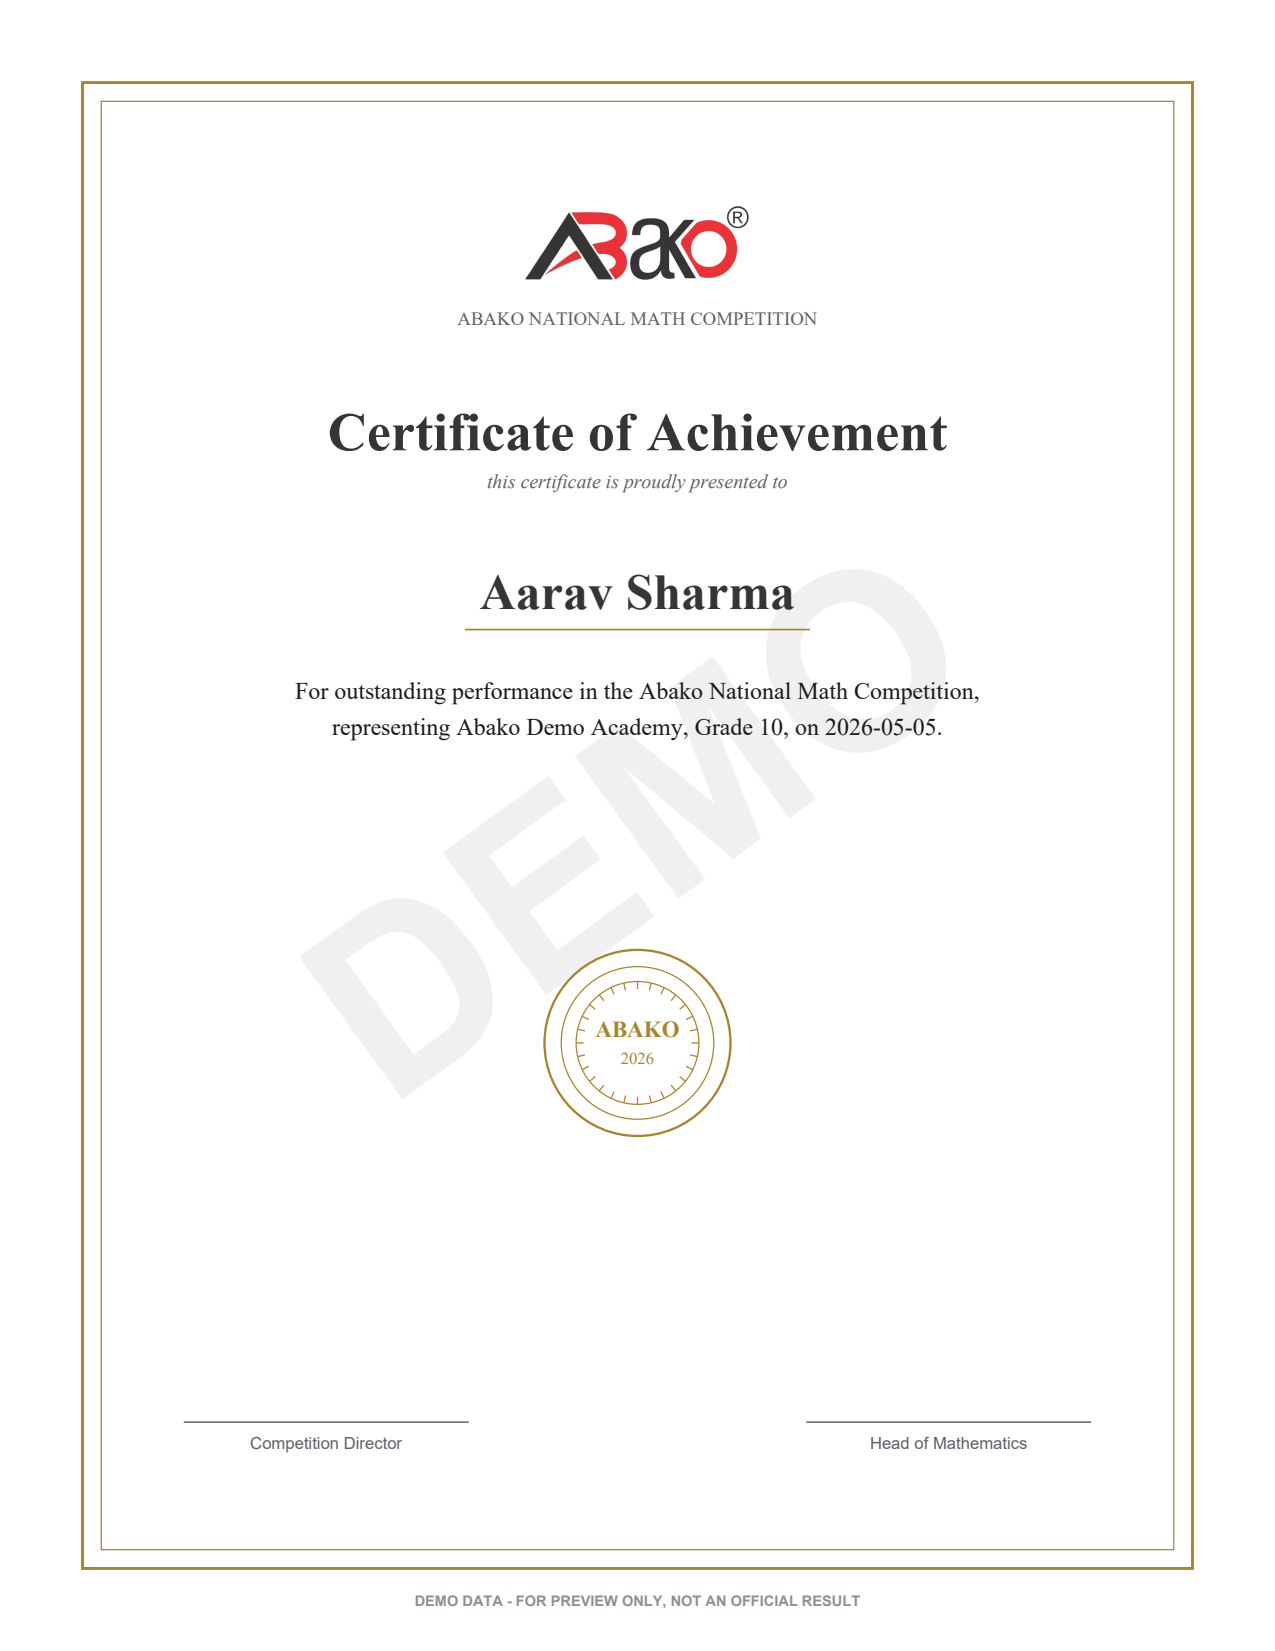
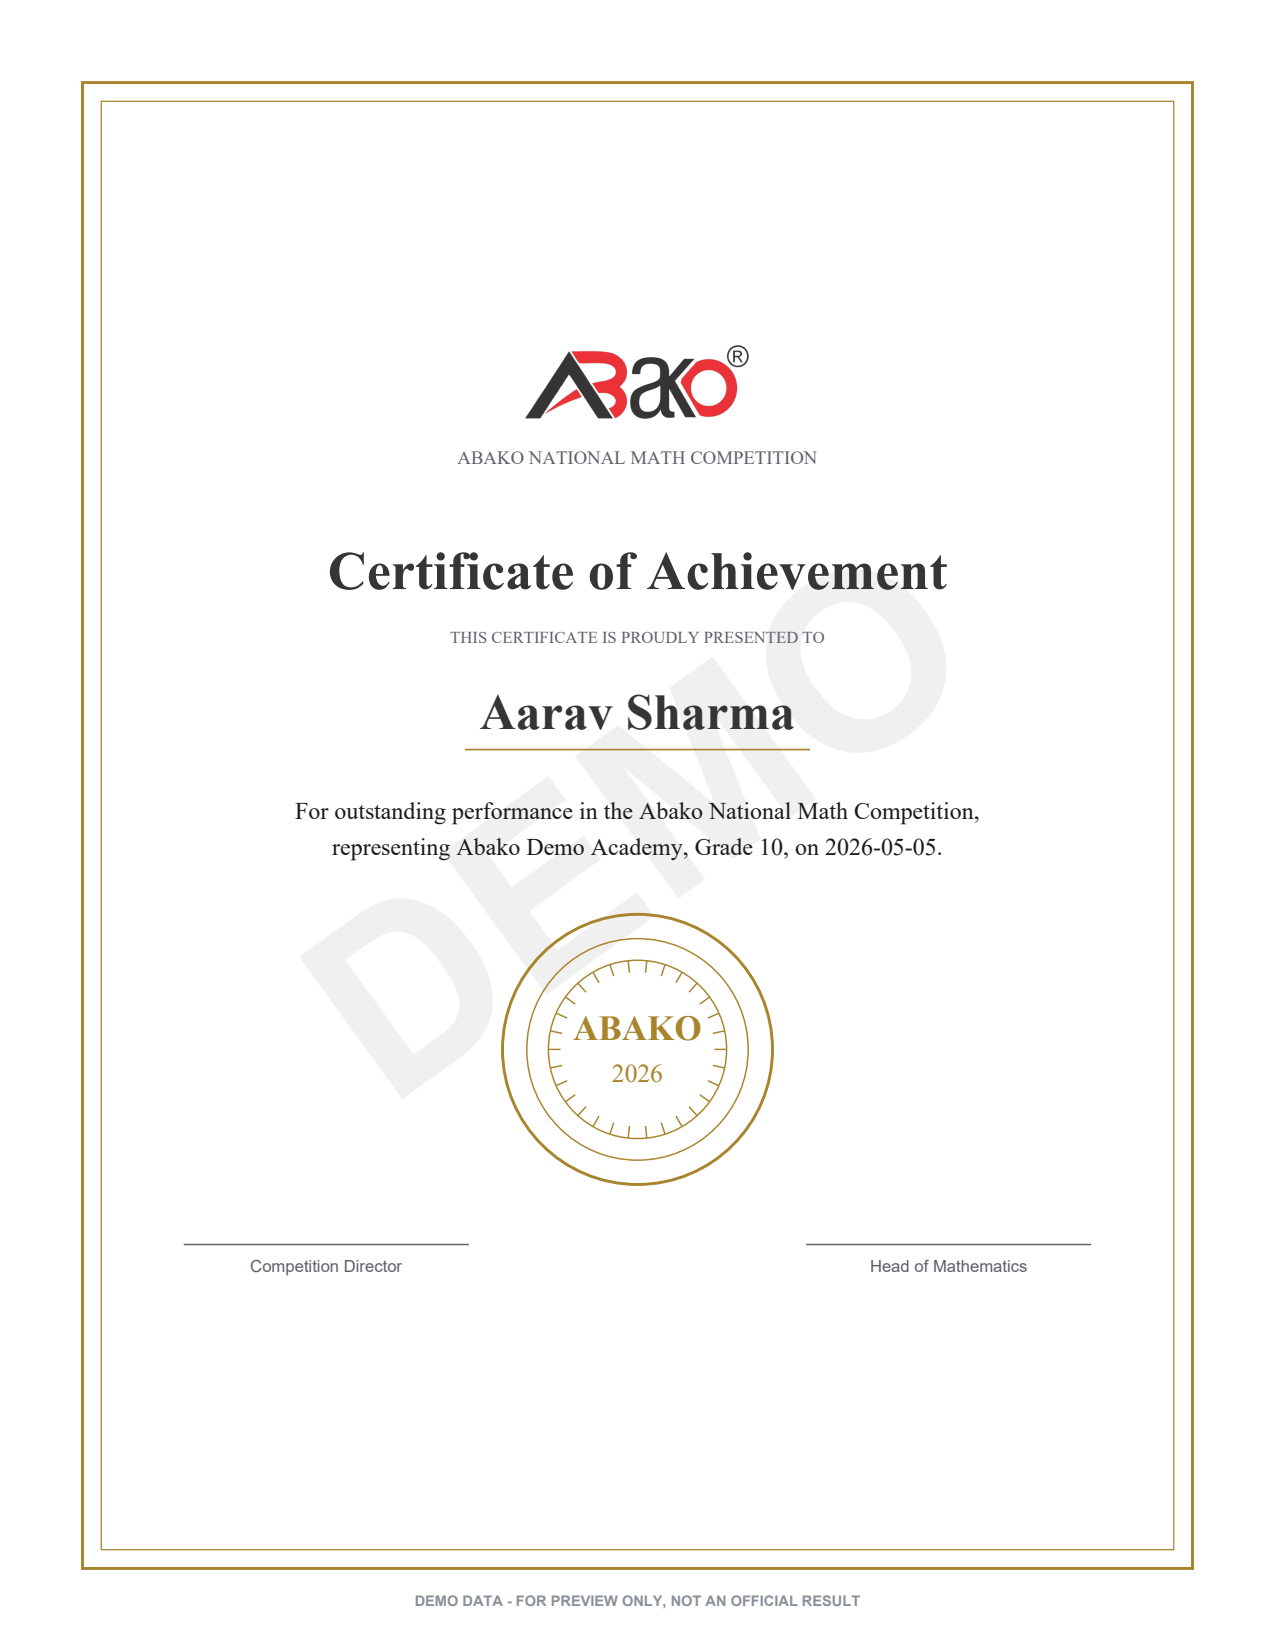
fix: rebalance the certificate and give the school report an identity
The certificate was top-heavy: everything lived in the top 45% of the
frame with two large voids below it. The block (wordmark, competition
line, title, kicker, name, citation, seal, signatures) is now measured
and centred as a unit within the bordered frame instead of hanging
from a fixed top offset, the seal grows from ~1.2in to 1.8in across so
it carries the lower half on its own, and the gaps on either side of
it are tight and deliberate rather than whatever was left over. Also
sets "this certificate is proudly presented to" as a letterspaced
small-caps line (pdf_theme.letterspace, the cert_eyebrow style that
was already defined but unused) instead of lowercase italic sitting
under the title like a typo.

The school report now opens with an identity block matching the
report card's: the school name at name-style scale, with campus,
grade, exam date and student count as eyebrow-labelled fields beneath
it, which also fixes the stat tiles butting straight into the header
hairline with no breathing room.

Report card page 1 is untouched.

diff --git a/backend/reporter.py b/backend/reporter.py
@@ -481,27 +481,30 @@ def _draw_report_card(c, student, school_info, all_topics, class_avg, demo=False
 # --------------------------------------------------------------------------
 
 def _draw_seal(c, cx, cy, r):
+    """A vector seal - concentric rings, a rosette of ticks, and lettering
+    that all scale with r, so a bigger seal reads as one solid medallion
+    rather than a small logo lost inside an oversized ring."""
     year = datetime.date.today().year
     c.saveState()
     for i, rr in enumerate((r, r * 0.82, r * 0.66)):
         c.setStrokeColor(theme.GOLD)
-        c.setLineWidth(1.1 if i == 0 else 0.6)
+        c.setLineWidth(1.4 if i == 0 else 0.7)
         c.circle(cx, cy, rr, fill=0, stroke=1)
-    n = 28
+    n = 30
     for i in range(n):
         ang = 2 * math.pi * i / n
         x1 = cx + math.cos(ang) * r * 0.66
         y1 = cy + math.sin(ang) * r * 0.66
-        x2 = cx + math.cos(ang) * r * 0.58
-        y2 = cy + math.sin(ang) * r * 0.58
+        x2 = cx + math.cos(ang) * r * 0.57
+        y2 = cy + math.sin(ang) * r * 0.57
         c.setStrokeColor(theme.GOLD)
-        c.setLineWidth(0.6)
+        c.setLineWidth(0.7)
         c.line(x1, y1, x2, y2)
     c.setFillColor(theme.GOLD)
-    c.setFont(theme.SERIF_BOLD, 11)
-    c.drawCentredString(cx, cy + 3, "ABAKO")
-    c.setFont(theme.SERIF, 8)
-    c.drawCentredString(cx, cy - 10, str(year))
+    c.setFont(theme.SERIF_BOLD, r * 0.26)
+    c.drawCentredString(cx, cy + r * 0.07, "ABAKO")
+    c.setFont(theme.SERIF, r * 0.19)
+    c.drawCentredString(cx, cy - r * 0.24, str(year))
     c.restoreState()
 
 
@@ -537,8 +540,61 @@ def _draw_certificate(c, student, school_info, demo=False):
 
     styles = theme.styles()
     cx = theme.PAGE_W / 2
-    y = theme.PAGE_H - inner - 0.7 * inch
+    text_w = theme.PAGE_W - 2 * inner
 
+    percentile = student.get("percentile", 0)
+    rank = student.get("rank") or 999
+    achievement = percentile >= 90 or rank <= 10
+    title_text = "Certificate of Achievement" if achievement else "Certificate of Participation"
+    exam_date = school_info.get("Exam Date", "—")
+    school = school_info.get("School Name", "—")
+    grade = school_info.get("Grade", "—")
+    verb = "outstanding performance in" if achievement else "participation in"
+    body_text = (f"For {verb} the Abako National Math Competition, representing "
+               f"{_esc(str(school))}, {_esc(str(grade))}, on {_esc(str(exam_date))}.")
+
+    title_par = Paragraph(title_text, styles["cert_title"])
+    # A tracked small-caps kicker line, sized to support the name below
+    # rather than read as a stray sentence under the title above it.
+    kicker_par = Paragraph(theme.letterspace("this certificate is proudly presented to"),
+                          styles["cert_eyebrow"])
+    name_par = Paragraph(_esc(str(student.get("name", ""))), styles["cert_name"])
+    body_par = Paragraph(body_text, styles["cert_body"])
+
+    _, title_h = title_par.wrap(text_w, theme.PAGE_H)
+    _, kicker_h = kicker_par.wrap(text_w, theme.PAGE_H)
+    _, name_h = name_par.wrap(text_w, theme.PAGE_H)
+    _, body_h = body_par.wrap(5.2 * inch, theme.PAGE_H)
+
+    competition_h = (theme.SIZE_SMALL + 1) * theme.LEADING
+    seal_r = 0.9 * inch
+    seal_gap = 0.32 * inch
+    sig_gap = 0.4 * inch
+    sig_text_h = 17
+
+    # The seal is a centrepiece, not an afterthought, and sits close under
+    # the citation instead of floating in a void; the signatures sit a
+    # matching distance below it. The whole block is then centred as a unit
+    # within the bordered frame, instead of hanging from a fixed top offset
+    # and leaving the lower frame empty.
+    content_h = (
+        theme.LOGO_H + theme.GAP_LG + competition_h + theme.GAP_XL
+        + title_h + theme.GAP_MD
+        + kicker_h + theme.GAP_MD
+        + name_h + 6
+        + theme.GAP_LG
+        + body_h
+        + seal_gap + seal_r * 2
+        + sig_gap + sig_text_h
+    )
+    frame_top = theme.PAGE_H - inner
+    frame_bottom = inner
+    content_top = frame_bottom + (frame_top - frame_bottom + content_h) / 2
+    # A very short certificate should still look anchored under the border,
+    # not simply floating dead-centre with an oversized top margin.
+    content_top = min(content_top, frame_top - 0.6 * inch)
+
+    y = content_top
     theme.draw_wordmark(c, cx - theme.LOGO_W / 2, y - theme.LOGO_H)
     y -= theme.LOGO_H + theme.GAP_LG
 
@@ -547,20 +603,9 @@ def _draw_certificate(c, student, school_info, demo=False):
     c.drawCentredString(cx, y, "ABAKO NATIONAL MATH COMPETITION")
     y -= theme.GAP_XL
 
-    percentile = student.get("percentile", 0)
-    rank = student.get("rank") or 999
-    achievement = percentile >= 90 or rank <= 10
-    title_text = "Certificate of Achievement" if achievement else "Certificate of Participation"
-    y = _flow(c, Paragraph(title_text, styles["cert_title"]), inner, y,
-             theme.PAGE_W - 2 * inner, gap_after=theme.GAP_MD)
-
-    c.setFont(theme.SERIF_ITALIC, theme.SIZE_BODY)
-    c.setFillColor(theme.SLATE)
-    c.drawCentredString(cx, y, "this certificate is proudly presented to")
-    y -= theme.GAP_XL
-
-    y = _flow(c, Paragraph(_esc(str(student.get("name", ""))), styles["cert_name"]),
-             inner, y, theme.PAGE_W - 2 * inner, gap_after=6)
+    y = _flow(c, title_par, inner, y, text_w, gap_after=theme.GAP_MD)
+    y = _flow(c, kicker_par, inner, y, text_w, gap_after=theme.GAP_MD)
+    y = _flow(c, name_par, inner, y, text_w, gap_after=6)
 
     c.setStrokeColor(theme.GOLD)
     c.setLineWidth(0.8)
@@ -568,28 +613,12 @@ def _draw_certificate(c, student, school_info, demo=False):
     c.line(cx - rule_w / 2, y, cx + rule_w / 2, y)
     y -= theme.GAP_LG
 
-    exam_date = school_info.get("Exam Date", "—")
-    school = school_info.get("School Name", "—")
-    grade = school_info.get("Grade", "—")
-    verb = "outstanding performance in" if achievement else "participation in"
-    body_text = (f"For {verb} the Abako National Math Competition, representing "
-               f"{_esc(str(school))}, {_esc(str(grade))}, on {_esc(str(exam_date))}.")
-    y = _flow(c, Paragraph(body_text, styles["cert_body"]), cx - 2.6 * inch, y,
-             5.2 * inch, gap_after=0)
+    y = _flow(c, body_par, cx - 2.6 * inch, y, 5.2 * inch, gap_after=0)
 
-    # The seal sits in the middle of whatever space is left above the
-    # signatures, instead of hugging the body text - on a short certificate
-    # (no achievement clause, a short school name) that space can be
-    # generous, and a seal glued to the paragraph above looks like an
-    # afterthought rather than a centrepiece.
-    sig_y = inner + 0.85 * inch
-    seal_r = 0.62 * inch
-    sig_clear = sig_y + 0.55 * inch
-    seal_cy = (y + sig_clear) / 2
-    seal_cy = min(seal_cy, y - seal_r - 12)
-    seal_cy = max(seal_cy, sig_clear + seal_r)
+    seal_cy = y - seal_gap - seal_r
     _draw_seal(c, cx, seal_cy, seal_r)
 
+    sig_y = seal_cy - seal_r - sig_gap
     _draw_signature(c, inner + 1.5 * inch, sig_y, "Competition Director")
     _draw_signature(c, theme.PAGE_W - inner - 1.5 * inch, sig_y, "Head of Mathematics")
 
@@ -669,6 +698,23 @@ def generate_school_report(students, school_info, all_topics, output_path, demo=
     width = theme.CONTENT_W
     cursor = theme.PAGE_H - theme.MARGIN_TOP
     styles = theme.styles()
+
+    # An identity block, the same shape as the one on the report card - the
+    # school report should name the school on its face, not only in the
+    # running footer.
+    school_name = str(school_info.get("School Name", "—"))
+    name_style = _name_style(school_name, styles["name"])
+    cursor = _flow(c, Paragraph(_esc(school_name), name_style), x0, cursor,
+                  width * 0.7, gap_after=theme.GAP_SM)
+
+    meta_items = [
+        ("Campus", school_info.get("Campus", "—")),
+        ("Grade", school_info.get("Grade", "—")),
+        ("Exam Date", school_info.get("Exam Date", "—")),
+        ("Students", str(len(students))),
+    ]
+    cursor = _draw_meta_row(c, x0, cursor, width, meta_items)
+    cursor -= theme.GAP_MD
 
     if not students:
         c.setFont(theme.SANS, theme.SIZE_BODY)
